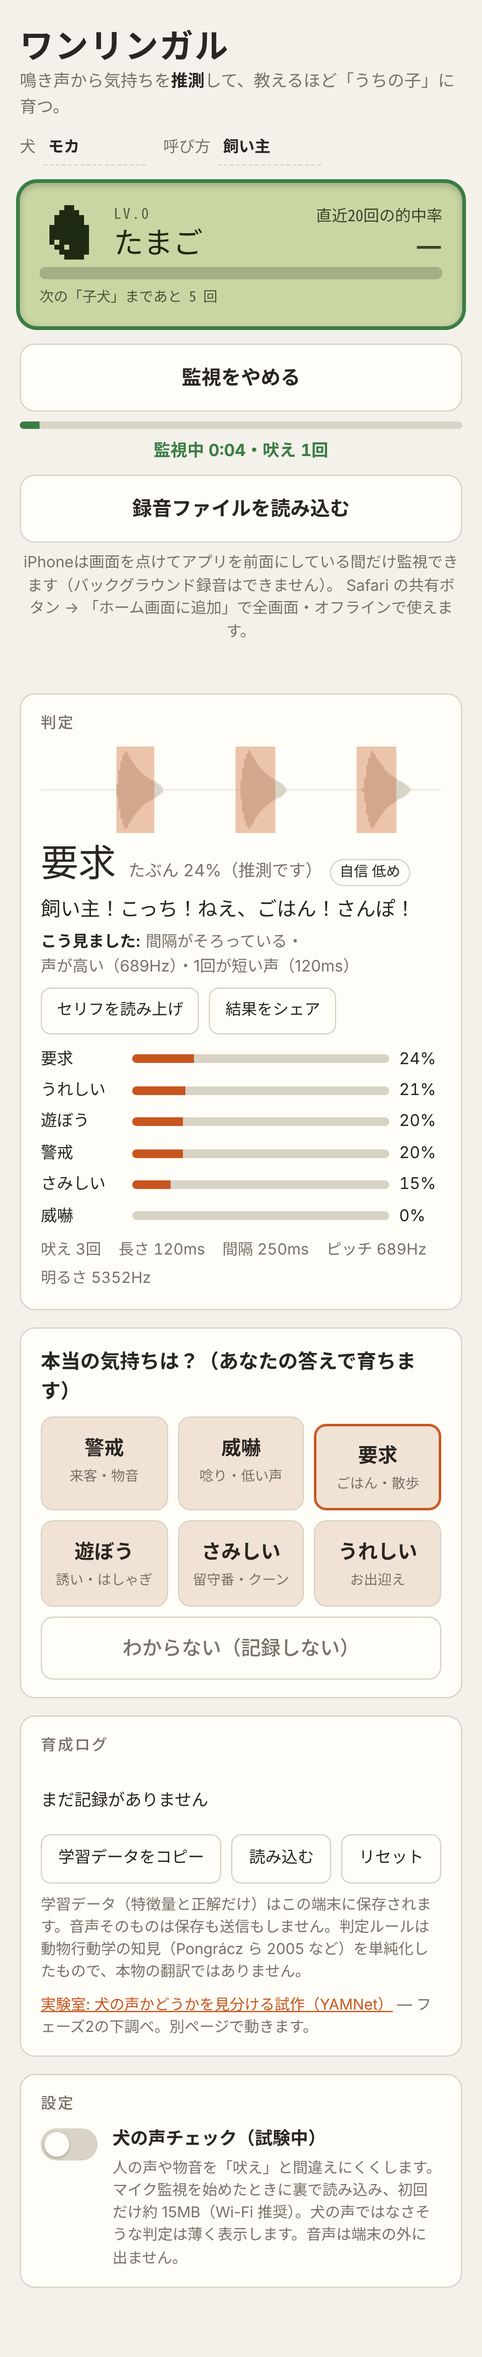
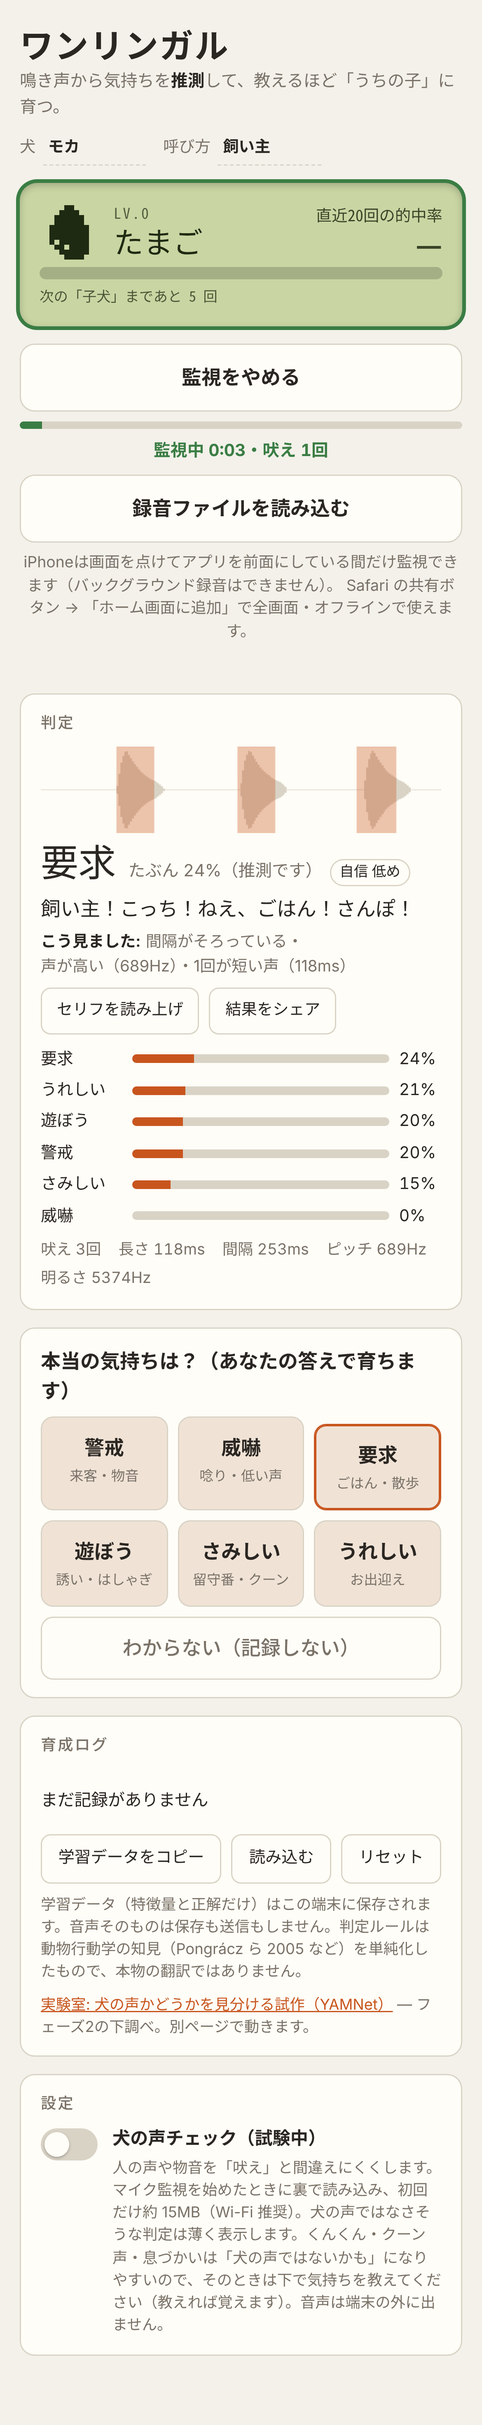
(c) 文言: 犬の声チェックの説明と判定の注記に「くんくん・息は落ちやすい→教えれば覚える」（sw wl-v16）、MFCC c3 を kNN の 9 本目に足す案の下書き、c3 の sr 依存を確認して lab-yamnet の表に sr の一言、日報 2026-11-19
- app/index.html: 設定パネル「犬の声チェック（試験中）」の説明と #dogNote の文言。app/sw.js wl-v16。判定の数字は不変
- tests/e2e: トグルのテストに文言の確認 2 行。docs/screenshots を npm run shots で撮り直し
- tests/lab/report.mjs: mfccReport の下に基準と CC0 のサンプリング周波数を出す mfccSrNote（違えば名指しで警告）。単体テスト 1 本（69/69）
- docs/plan.md: #13 に c3 を 9 本目に足す案の下書き（16 kHz に落としてから）、#14 (c) 完了。docs/accuracy.md 2026-11-19: 合成音で c3 が 44.1k→16k で 5.0 動く

Claude-Session: https://claude.ai/code/session_01Dz83Za9kXbRi3LswcFxPTR

diff --git a/app/index.html b/app/index.html
@@ -69,7 +69,7 @@
     <div class="pred"><span class="big" id="predBig">── ──</span><span class="conf" id="predConf"></span></div>
     <p class="quote" id="quote"></p>
     <p class="why" id="why" aria-label="判定の根拠"></p>
-    <p class="dognote" id="dogNote" hidden>犬の声ではないかもしれません（人の声や物音？）。犬の声だったら、下で気持ちを教えると覚えます。</p>
+    <p class="dognote" id="dogNote" hidden>犬の声ではないかもしれません（人の声や物音？ くんくん・息づかいもこう出やすいです）。犬の声だったら、下で気持ちを教えると覚えます。</p>
     <div class="minis">
       <button class="mini" id="speak" type="button">セリフを読み上げ</button>
       <button class="mini" id="share" type="button">結果をシェア</button>
@@ -112,7 +112,7 @@
     <label class="switch">
       <input type="checkbox" id="dogcheckToggle">
       <span class="knob" aria-hidden="true"></span>
-      <span class="text"><b>犬の声チェック（試験中）</b><small>人の声や物音を「吠え」と間違えにくくします。マイク監視を始めたときに裏で読み込み、初回だけ約 15MB（Wi-Fi 推奨）。犬の声ではなさそうな判定は薄く表示します。音声は端末の外に出ません。</small></span>
+      <span class="text"><b>犬の声チェック（試験中）</b><small>人の声や物音を「吠え」と間違えにくくします。マイク監視を始めたときに裏で読み込み、初回だけ約 15MB（Wi-Fi 推奨）。犬の声ではなさそうな判定は薄く表示します。くんくん・クーン声・息づかいは「犬の声ではないかも」になりやすいので、そのときは下で気持ちを教えてください（教えれば覚えます）。音声は端末の外に出ません。</small></span>
     </label>
     <p class="note" id="dogcheckState"></p>
   </section>

diff --git a/app/sw.js b/app/sw.js
@@ -1,7 +1,7 @@
 // sw.js — オフライン用。アプリ本体は事前キャッシュ、フォントはキャッシュしつつネットワーク優先。
 // それ以外の外部オリジン（犬の声チェックの tfjs＝jsdelivr、YAMNet のモデル＝tfhub / kaggle、約 15MB）には手を出さない:
 // ここのキャッシュに入れると VERSION を上げるたびに消えて読み直しになるので、ブラウザ自身の HTTP キャッシュに任せる。
-const VERSION = 'wl-v15';
+const VERSION = 'wl-v16';
 /** Service Worker のキャッシュに入れてよい外部オリジン（フォントだけ） */
 const CACHEABLE_HOSTS = ['fonts.googleapis.com', 'fonts.gstatic.com'];
 const SHELL = ['./', './index.html', './css/app.css', './js/app.js', './js/features.js', './js/classify.js', './js/store.js', './js/mic.js', './js/share.js', './js/recs.js', './js/mascot.js', './js/dogcheck.js', './js/voice.js', './affiliate.json', './manifest.webmanifest', './icons/icon.svg', './icons/icon-192.png', './icons/icon-512.png'];

diff --git a/docs/plan.md b/docs/plan.md
@@ -37,9 +37,9 @@
 | 10 | 犬か犬以外かのしきい値決め | 完了（0.3 のまま） | ESC-50 の dog 40 本・犬以外 40 本（8 クラス）で、しきい値 0.2〜0.4 なら犬 40/40・誤判定 0/40（`docs/accuracy.md` 2026-11-03）。`lab-yamnet` ワークフローが実行時にデータを取得して毎回この表を出す（`tests/lab/fetch-data.mjs`, `report.mjs`）。くんくん・うなり・遠吠えは CC0 5 本で別途確認 |
 | 11 | CC ライセンスの犬の鳴き声データセット洗い出し | 完了 | `docs/datasets.md`。商用で使えるのは CC0/CC BY のみ。気持ちラベル付きの公開データは実質なし |
 | 12 | 最初の「本物の犬」を本体の判定に通す | 一部完了 | ESC-50 dog 40 本で吠え検出 40/40、特徴量の分布を `docs/accuracy.md` に記録（`tests/lab/features-check.mjs`）。CC0 5 本（pet-decoder-audio-fixtures）はこの作業環境から HF に届かないので Actions 側で取得・実行。NC のデータはリポジトリに入れない（`tests/lab/data/` は gitignore） |
-| 13 | MFCC を特徴量に追加 | **保留（本体には入れない。2026-11-15）**: 正解ラベル付きの本物の犬 20 件がたまったら c3 1 本だけを候補に再検討 | **2026-11-15 の結果（run 43627321740、`docs/accuracy.md` 同日）**: くんくん・うなり は c3 だけが吠え 40 本から +2.2σ／+2.9σ 離れる（同じ向きなので さみしい／威嚇 は分かれない）。12 係数で |z| ≥ 2 が 1 つ出るのは偶然でも 0.6 個ぶん（小型犬の吠えの c8 がそれ）なので弱い。息は 7 係数が離れるが YAMNet が落とす声。→ 12 次元を kNN に足すのはやめ、ラベルが来てから塊ごとの c3 を見る。表は残す。**2026-11-15**: `lab-yamnet` の `features-check.mjs` に **MFCC（c1〜c12 の平均）の表**を足した（`report.mjs` の `mfccReport`、`tools/mfcc-bench.mjs` の `mfccOfEvents`＝声 1 回ごとのフレームだけを使う。単体テスト 2 本）。基準は ESC-50 の吠え 40 本（ファイルごとの平均の 平均±σ）で、CC0 5 本と犬以外 8 クラスについて「吠えから |z| ≥ 2 離れた係数」を挙げる。この作業環境で ESC-50 だけ先に通した結果: 犬以外 8 クラスのうち 5 クラス（ノック c2・c4、笑い c4、咳 c4、拍手 c1、鶏 c6）が吠えから離れ、猫・赤ん坊・クラクションは離れない。**くんくん・うなり（CC0）は Actions の run で見る**（この環境からは HF に届かない）。分かれなければ本体には入れない。**2026-11-14**: ライブラリを入れずに自前で 13 次元を出す手順と計算量を `tools/mfcc-bench.mjs`（純粋関数＋計測、単体テスト 5 本。**本体には入れていない**）で確かめた。1 秒の音に **約 7.5 ms**（Node / Chromium、Actions 相当の CPU）、CPU を 4 倍遅くしても 30 ms。いまの `analyzeSamples` より軽い（下の「plan #13 の下調べ」） |
+| 13 | MFCC を特徴量に追加 | **保留（本体には入れない。2026-11-15）**: 正解ラベル付きの本物の犬 20 件がたまったら c3 1 本だけを候補に再検討。**c3 を 9 本目に足す案の下書きは 2026-11-19（下の「plan #13 の下調べ」の末尾）** | **2026-11-19**: c3 1 本を kNN の 9 本目に足す案を机上で下書き（下の節）。あわせて **c3 の値はサンプリング周波数で変わる**（合成の吠え bark4 が 44.1 kHz で −7.9、16 kHz で −2.9。σ 3.1 より大きい差）ことが分かったので、`lab-yamnet` の MFCC の表の下に基準と CC0 の sr を出す一言（`report.mjs` の `mfccSrNote`、単体テスト 1 本）を足した。CC0 の sr が 44.1 kHz でなければ 11-15 の c3 の結果は取り直し。本体に入れるなら 16 kHz に落としてから。**2026-11-15 の結果（run 43627321740、`docs/accuracy.md` 同日）**: くんくん・うなり は c3 だけが吠え 40 本から +2.2σ／+2.9σ 離れる（同じ向きなので さみしい／威嚇 は分かれない）。12 係数で |z| ≥ 2 が 1 つ出るのは偶然でも 0.6 個ぶん（小型犬の吠えの c8 がそれ）なので弱い。息は 7 係数が離れるが YAMNet が落とす声。→ 12 次元を kNN に足すのはやめ、ラベルが来てから塊ごとの c3 を見る。表は残す。**2026-11-15**: `lab-yamnet` の `features-check.mjs` に **MFCC（c1〜c12 の平均）の表**を足した（`report.mjs` の `mfccReport`、`tools/mfcc-bench.mjs` の `mfccOfEvents`＝声 1 回ごとのフレームだけを使う。単体テスト 2 本）。基準は ESC-50 の吠え 40 本（ファイルごとの平均の 平均±σ）で、CC0 5 本と犬以外 8 クラスについて「吠えから |z| ≥ 2 離れた係数」を挙げる。この作業環境で ESC-50 だけ先に通した結果: 犬以外 8 クラスのうち 5 クラス（ノック c2・c4、笑い c4、咳 c4、拍手 c1、鶏 c6）が吠えから離れ、猫・赤ん坊・クラクションは離れない。**くんくん・うなり（CC0）は Actions の run で見る**（この環境からは HF に届かない）。分かれなければ本体には入れない。**2026-11-14**: ライブラリを入れずに自前で 13 次元を出す手順と計算量を `tools/mfcc-bench.mjs`（純粋関数＋計測、単体テスト 5 本。**本体には入れていない**）で確かめた。1 秒の音に **約 7.5 ms**（Node / Chromium、Actions 相当の CPU）、CPU を 4 倍遅くしても 30 ms。いまの `analyzeSamples` より軽い（下の「plan #13 の下調べ」） |
 | 13b | ルールの見直し（本物 40 本の分布から） | (i) `lvlDrop` を feats に出す 完了 2026-11-15。塊ごとの lvlDrop の表 完了 2026-11-16（CC0 の結果も同夜に記録）。**(ii) `vec()` に lvlDrop 完了 2026-11-17（kNN 8 次元）**。残り: (iii) `terms()`・重み（下書きは設計メモ 5 の 2026-11-17 に数字で書いた。**コードは正解ラベル付きの本物の犬が来てから**。2026-11-18: 「他から引く」形も机上で見て、吠えの塊の 9〜13% が動くので同じ結論） | **2026-11-18**: (iii) の別案「`uneven` が高いときに 警戒・うれしい の fast／many を弱める（他から引く）」を 11-17 と同じ 2 万件で机上確認（`docs/accuracy.md` 2026-11-18）。くんくん が さみしい になるのは全部弱める D1 と 3 気持ちの合計を下げる D4 だけ（26% vs 22〜24% の僅差）で、その代わり **本物の吠えの塊の 9.3%／12.7% の 1 位が変わる**（11-17 の C の 11% と同じ水準）。くんくん と吠えを分ける数字が lvlDrop 1 本しか無く、吠えの塊でも ≥5 dB が 1 割あるのが根っこ。→ 結論は変わらず **(iii) はコードにしない**。ルールで拾うなら MFCC c3 を kNN に足して 2 本目の数字を作ってから（正解ラベルが来てから）。あわせて `lab-yamnet` の Summary の最後と run の注釈に **「今夜の要点」3 行**（吠え検出率・塊の犬らしさ・くんくん／うなり が吠えから離れたか）を出す `tests/lab/highlights.mjs`（`report.mjs` の `highlightsReport`、単体テスト 1 本）を足した。app/ は触っていない。**2026-11-17**: **(ii) 完了**＝`classify.js` の `vec()` に `clamp(f.lvlDrop ?? 0, 0, 12) / 12` を足した（7 → **8 次元**。12 dB で 1、息 12.8 dB が上限の目安）。lvlDrop の無い古いサンプルは 0（そろった吠えと同じ側）として読むので、古いサンプル同士の距離・近い順は 7 次元のときとまったく同じ（単体テストで |Δn|/12 の距離が変わらないことを固定）。**ルール `terms()`・`WEIGHTS` は触っていない**ので、判定の数字が変わり得るのは飼い主が教えた声が 3 件以上あって kNN が効くときだけ（しかも n/(n+8) の重みぶん）。単体テスト 2 本（互換テストを 8 次元用に書き直し＋「7 つが同じなら 5.5 dB のサンプルが 5.0 dB の塊に近い、ルールは不変、`explain()` の似た声の行が出る」）。E2E は既存の「教えてもらった似た声」の確認（3 件以上で出る）がそのまま通る。`sw.js` **wl-v15**。**2026-11-16**: `lab-yamnet` の `features-check.mjs` に **塊ごとの lvlDrop の表**を足した（`report.mjs` の `lvlDropReport`、単体テスト 1 本。塊は `clustersFromEvents` で切り出し、塊ごとに本体と同じ `analyzeSamples()` を掛け直す）。ESC-50 の吠え 40 本 → 72 塊（2 回以上鳴いた 50 塊）: **中央値 1.9 dB、25–75% 0.7–2.9、>4 dB が 20%**（`docs/accuracy.md` 2026-11-16）。ファイル全体（1.8 dB、>4 dB 26%）とほぼ同じで、**塊にしても吠えの lvlDrop は縮まない**。→ 設計メモ 5 の `uneven`（1.5→5.5 dB）だと本物の吠えの 56% が uneven > 0 になるので、境目は吠えの 75% 点（2.9 dB）の上から（例 3→7 dB）、かつ「さみしい に足すだけ・他から引かない」に改める。**同夜の CC0 の結果（run 43747142815、`docs/accuracy.md` 同日）: くんくん は塊でも 5.0〜5.5 dB（3 塊とも >4 dB）、CC0 の吠え 2 本は 15 塊とも ≤1 dB、うなり は 2.4 dB で吠えと重なる → 塊単位でも「小さい声が混ざる」は見える。境目は 3→7 dB、さみしい だけに足す（威嚇 には使わない）。(ii) に進む。** あわせて **(ii) の準備**: `classify.js` の `vec()` は変えずに、lvlDrop 無しの古いサンプルと有りの新しいサンプルを混ぜても `neighbors`・`knn`・`predict` が同じ（undefined と 0 で同じ距離）ことの単体テストを書いた（`features.test.mjs`）。app/ は触っていない。**2026-11-15**: 設計メモ (i) 完了＝`features.js` の `feats.lvlDrop`（塊の中でいちばん大きい声から各声が何 dB 下かの中央値。`levelDrop()` 純粋関数。1 回だけ・無音は 0）。判定（`rules`・`predict`）と画面の表示は変えていない（単体テストで lvlDrop の有無で判定が同じことを確認）。保存は `app.js` が `feats` をそのまま `samples[].f` に入れるので **数字 1 つ増えて 8 つ**（E2E の保存キーの確認も 8 つに。音声は保存しない のまま。設計メモ 3 の「増えるだけで壊れない」どおり）。`sw.js` wl-v14。合成音: そろった 4 連吠え 0.0 dB、4 回のうち 2 回を 1/4 の大きさにすると 6.0 dB、fixtures の bark4 0.05・mic10s 0.2。**ESC-50 の吠え 40 本（5 秒のファイル全体、2 回以上鳴いた 34 本）では中央値 1.8 dB、25–75% 0.8–4.2、最大 7.2**（`docs/accuracy.md` 2026-11-15）→ 5 秒まるごとだと吠えでも 1/4 は 4 dB を超えるので、`uneven` の傾き（1.5→5.5 dB）は塊（約 1.5 秒）の数字を見て決める。**2026-11-14**: 「声の大小のばらつき」（`lvlDrop`）と「1 回の中のピッチの傾き」（`f0Slope`）を特徴量に足す案を下の「plan #13b の設計メモ」に書いた（机上。数字・コードは変えていない）。**2026-11-13**: `features-check.mjs` に、CC0 5 本の **声 1 回ごとの f0・cent・level の分布**（`report.mjs` の `eventToneReport`、単体テスト 1 本）を足した。f0 が取れた割合、f0 の中央値・25–75%、「声が低い ≤320Hz」「声が高い ≥590Hz」に入る割合、f0 の幅（25–75% の差＝ピッチの動きの代わり）、cent と「こもった ≤1300／明るい ≥1600」、level（dBFS）と **同じファイルのいちばん大きい声から何 dB 下か**（録音ごとに音量の基準が違うので、ファイル間ではなくファイル内の大小のばらつきを見る）。`features-result.json` の `events` に `level` を追加。**同夜の結果（run 43280755707、`docs/accuracy.md` 2026-11-13）**: うなりは声 1 回ごとに見ると半分が「低い ≤320Hz」（吠え・くんくんは 0%。ただし大型犬の吠えも 36%）。くんくんは吠えより小さい声が混ざる（いちばん大きい声から中央値 5.4 dB 下。吠えは 0.7〜1.6 dB）が、うなりも 4.6 dB で同じくらい。ピッチの動き（f0 の幅）はくんくんが特別広くはない。**いまの「さみしい」のルール（長い・高い・明るい）は本物のくんくんに 3 つとも当たらない**（85ms・459Hz・cent 1248Hz でむしろ「こもった」）。直す方向は「小さい声が混ざる・中くらいの高さ・こもり気味」。判定の数字は変えていない（正解ラベルが来てから）。**2026-11-12**: `lab-yamnet` の `features-check.mjs` に、CC0 5 本（くんくん・うなり・息・大型犬・小型犬）の **声 1 回ごとの長さと間隔の分布**（中央値・25–75%、いまの境目 長い ≥710ms／短い ≤590ms／間隔 短い ≤300ms／ゆったり ≥880ms を超える割合、最長）の表を足した（`report.mjs` の `eventDistReport`、単体テスト 1 本）。**同夜の結果（run 43078050401、`docs/accuracy.md` 2026-11-12）: くんくんは 1 回 85ms（最長 309ms）、うなりは 176ms（最長 448ms）で、どちらも吠えより長くない。「長い ≥710ms」に入るのは息の 1 塊（859ms）だけ。→ 長さの境目を寄せても さみしい・威嚇 は出せない。さみしい（クーン声）は長さではなくピッチの動きや音量の小ささ、威嚇はピッチの低さ（うなり 307Hz）で拾う方向。数字を動かすのは正解ラベルが来てから（#13 の MFCC と一緒に）。** 本物の連吠えは間隔がばらつく（gapCv 中央値 0.58）ので「規則的→要求」がほぼ出ない。正解ラベル付きデータが来てから直す。**2026-11-11 の机上確認**（`docs/accuracy.md` 同日）: 本物の分布に合わせた乱数 2 万件で「なぜ」に出る言葉を数えると、**「1回が短い声」が 89%** に出て、「間隔が短い／ゆったり／そろっている」は合わせて 28% しか出ない（本物の間隔 300〜880ms は、短い・ゆったりのどちらにも入らない空白地帯）。「1回が長い声」は 0%（長い＝710ms 以上は本物の吠えにはほぼ無い）ので、ルールだけでは さみしい 0%・威嚇 1% にしかならない（ESC-50 の実測 1/40・1/40 と一致）。直すときの候補: 長さの境目（いま 0.35〜0.95 秒）と間隔の境目（短い ≤300ms／ゆったり ≥880ms）を本物の分布（145ms、509ms）の前後に寄せる。数字は正解ラベルが来てから |
-| 14 | YAMNet を本体の mic.js の前段に入れる | 実装 ①〜④ 完了（既定オフ）。残り: スマホ実機の処理時間・電池を見てから既定オンの判断 | #9・#10 が済んだので着手できる。設計: モデル読み込みは監視開始後に裏で（約 15MB、初回のみ）、読めていない間とオフライン時は従来どおり音量だけで動く。吠えの塊ごとに犬らしさを出し 0.3 未満は「犬以外の音」として判定しない（履歴にも残さない）。スマホの処理時間を実機で測ってから本番に。**2026-11-04**: 本体が実際に YAMNet に渡す単位＝「吠えの塊」（mic.js と同じ区切り、ESC-50 で犬 72 塊・犬以外 51 塊、平均 1.5 秒）ごとの犬らしさを `lab-yamnet` が表に出すようにした（`clustersFromEvents`、`clusterReport`）。あわせて、くんくん・息のように点が割れる声のために「犬系クラスの合計 dogSum」も並記。結果: 塊で犬 89/97（92%）・犬以外 0/51、**くんくん・息は塊では落ちる**（`docs/accuracy.md` 2026-11-04）。**2026-11-05**: 前の実音を足して最低 2 秒／3 秒にして計測。**2 秒で犬の塊 91/97（94%）・犬以外 0/51** と改善（3 秒は赤ん坊の泣き声を 1 塊拾う）。くんくん・息は広げても落ちる。→ 渡す範囲は「最低 2 秒」に決定、設計メモを下に固めた。**同日**: 実装 ① 完了＝`Listener.contextSec`（2 秒）と `onCluster(x, sr, { wide })` の第 3 引数（単体テスト 4 本。本体の判定・表示は未変更）。**2026-11-06**: 実装 ② 完了＝`app/js/dogcheck.js`（既定オフ。`wl.dogcheck` がオンのときだけ監視開始後に裏で tfjs 4.22.0 とモデルを読み、`wide` を通して犬らしさを出す。読めない・オフは従来どおり）。本体は判定を先に出し、犬らしさは届いたら特徴量の行に「犬らしさ 94%（0.9秒）」と添えるだけ（判定・保存は未変更）。トグル（④）ができるまでの入口は URL の `?dogcheck=on` / `?dogcheck=off`。単体テスト 7 本・E2E 3 本×2 端末（偽の tf で配線を確認）、本物の tfjs・モデルでは `lab-yamnet` が本体のページの中で通す（`tests/lab/dogcheck-probe.mjs`）。塊 1 つの処理時間は Actions のランナーで 2 秒の音に中央値 876 ms（`docs/accuracy.md` 2026-11-06）。本物のモデルでも本体の中で通ることを確認済み（run 42084472735: 読み込み 1.4 秒、犬らしさ 86%＝実験室と同じ、推論 0.8〜1.0 秒、backend は cpu）。**2026-11-07**: 実装 ③ 完了＝犬らしさ 0.3 未満の判定は、出したまま薄くして「犬の声ではないかもしれません」と添え、「吠え ◯回」から外す。捨てない: 飼い主が気持ちをタップしたら犬の声として通常どおり保存し、薄い表示を戻して吠え回数にも戻す（保存する項目は増やしていない）。E2E 1 本×2 端末（偽の tf で犬らしさ 5%）。あわせて `sw.js` を直し、外部オリジンはフォントだけキャッシュ、tfjs・モデルには触らない（設計メモ 7-ii。単体テスト 4 本・E2E 1 本×2 端末）。**2026-11-08**: 実装 ④ 完了＝画面いちばん下の「設定」パネルに「犬の声チェック（試験中）」のトグル（`#dogcheckToggle`。`?dogcheck=on/off` と同じ localStorage `wl.dogcheck` を変える。監視中にオンにすればその場で読み込み、オフにすれば以後の判定に掛けない。状態の一言「読み込んでいます…／準備できています／読み込めませんでした」を下に出す。E2E 1 本×2 端末、見た目 `docs/screenshots/android-chrome-settings.png`）。あわせて SRI（7-iii）完了＝tfjs の `<script>` に `integrity`（`app/lab/yamnet.js` の `TFJS_SRI`、本体と実験室の両方）。CDN の中身が変わればブラウザが読まず「読めなかった」扱いになるだけ。ハッシュは npm の tarball から出し、CDN が同じ中身かは `lab-yamnet` の `tests/lab/sri-check.mjs` が毎回比べる。次: スマホ実機の処理時間（社長）、既定オンの判断。録音ファイル読み込みに掛けるか（7-iv）は 2026-11-09 に検討して**当面やらない**（設計メモ 9） |
+| 14 | YAMNet を本体の mic.js の前段に入れる | 実装 ①〜④ 完了（既定オフ）。残り: スマホ実機の処理時間・電池を見てから既定オンの判断 | **2026-11-19**: (c) 文言＝設定パネルの「犬の声チェック（試験中）」の説明に「くんくん・クーン声・息づかいは「犬の声ではないかも」になりやすいので、そのときは下で気持ちを教えてください（教えれば覚えます）」、判定の注記 `#dogNote` に「くんくん・息づかいもこう出やすいです」を足した（11-05 の計測「くんくん・息は塊では落ちる」を飼い主に先に伝える）。E2E のトグルのテストに文言の確認 2 行。`docs/screenshots/` を `npm run shots` で撮り直し（設定パネルが伸びたぶん全ページの絵が変わった）。`sw.js` **wl-v16**。判定の数字は変えていない。#9・#10 が済んだので着手できる。設計: モデル読み込みは監視開始後に裏で（約 15MB、初回のみ）、読めていない間とオフライン時は従来どおり音量だけで動く。吠えの塊ごとに犬らしさを出し 0.3 未満は「犬以外の音」として判定しない（履歴にも残さない）。スマホの処理時間を実機で測ってから本番に。**2026-11-04**: 本体が実際に YAMNet に渡す単位＝「吠えの塊」（mic.js と同じ区切り、ESC-50 で犬 72 塊・犬以外 51 塊、平均 1.5 秒）ごとの犬らしさを `lab-yamnet` が表に出すようにした（`clustersFromEvents`、`clusterReport`）。あわせて、くんくん・息のように点が割れる声のために「犬系クラスの合計 dogSum」も並記。結果: 塊で犬 89/97（92%）・犬以外 0/51、**くんくん・息は塊では落ちる**（`docs/accuracy.md` 2026-11-04）。**2026-11-05**: 前の実音を足して最低 2 秒／3 秒にして計測。**2 秒で犬の塊 91/97（94%）・犬以外 0/51** と改善（3 秒は赤ん坊の泣き声を 1 塊拾う）。くんくん・息は広げても落ちる。→ 渡す範囲は「最低 2 秒」に決定、設計メモを下に固めた。**同日**: 実装 ① 完了＝`Listener.contextSec`（2 秒）と `onCluster(x, sr, { wide })` の第 3 引数（単体テスト 4 本。本体の判定・表示は未変更）。**2026-11-06**: 実装 ② 完了＝`app/js/dogcheck.js`（既定オフ。`wl.dogcheck` がオンのときだけ監視開始後に裏で tfjs 4.22.0 とモデルを読み、`wide` を通して犬らしさを出す。読めない・オフは従来どおり）。本体は判定を先に出し、犬らしさは届いたら特徴量の行に「犬らしさ 94%（0.9秒）」と添えるだけ（判定・保存は未変更）。トグル（④）ができるまでの入口は URL の `?dogcheck=on` / `?dogcheck=off`。単体テスト 7 本・E2E 3 本×2 端末（偽の tf で配線を確認）、本物の tfjs・モデルでは `lab-yamnet` が本体のページの中で通す（`tests/lab/dogcheck-probe.mjs`）。塊 1 つの処理時間は Actions のランナーで 2 秒の音に中央値 876 ms（`docs/accuracy.md` 2026-11-06）。本物のモデルでも本体の中で通ることを確認済み（run 42084472735: 読み込み 1.4 秒、犬らしさ 86%＝実験室と同じ、推論 0.8〜1.0 秒、backend は cpu）。**2026-11-07**: 実装 ③ 完了＝犬らしさ 0.3 未満の判定は、出したまま薄くして「犬の声ではないかもしれません」と添え、「吠え ◯回」から外す。捨てない: 飼い主が気持ちをタップしたら犬の声として通常どおり保存し、薄い表示を戻して吠え回数にも戻す（保存する項目は増やしていない）。E2E 1 本×2 端末（偽の tf で犬らしさ 5%）。あわせて `sw.js` を直し、外部オリジンはフォントだけキャッシュ、tfjs・モデルには触らない（設計メモ 7-ii。単体テスト 4 本・E2E 1 本×2 端末）。**2026-11-08**: 実装 ④ 完了＝画面いちばん下の「設定」パネルに「犬の声チェック（試験中）」のトグル（`#dogcheckToggle`。`?dogcheck=on/off` と同じ localStorage `wl.dogcheck` を変える。監視中にオンにすればその場で読み込み、オフにすれば以後の判定に掛けない。状態の一言「読み込んでいます…／準備できています／読み込めませんでした」を下に出す。E2E 1 本×2 端末、見た目 `docs/screenshots/android-chrome-settings.png`）。あわせて SRI（7-iii）完了＝tfjs の `<script>` に `integrity`（`app/lab/yamnet.js` の `TFJS_SRI`、本体と実験室の両方）。CDN の中身が変わればブラウザが読まず「読めなかった」扱いになるだけ。ハッシュは npm の tarball から出し、CDN が同じ中身かは `lab-yamnet` の `tests/lab/sri-check.mjs` が毎回比べる。次: スマホ実機の処理時間（社長）、既定オンの判断。録音ファイル読み込みに掛けるか（7-iv）は 2026-11-09 に検討して**当面やらない**（設計メモ 9） |
 
 ## plan #14 の設計メモ（2026-11-05。YAMNet を本体 mic.js の前段に入れる）
 
@@ -78,6 +78,19 @@
 - **保存する数字**: 平均だけなら 13（c0 を外して 12）、標準偏差も入れると 26 増える。`samples[].f` に `mfcc: [..]` の配列で持つ形（kNN の `vec()` では各係数を ±20 くらいで clamp して正規化、ルールには使わない）。音声そのものではないので「音声データは端末から出さない」に影響なし。localStorage の上限（`MAX = 2000` 件）でも 1 件 300 バイト増 → 600KB 程度で問題なし。
 - **本物の犬で先に見ること**: ESC-50 dog 40 本と CC0 5 本で、くんくん／うなり／吠えの MFCC（c1〜c12 の平均）が分かれるかを `lab-yamnet` の `features-check.mjs` に表で足す（`report.mjs` に純粋関数、Actions で実行）。**→ 2026-11-15 に表を足した**（`mfccReport`。ESC-50 だけの先行結果は #13 の状態欄と `docs/accuracy.md` 2026-11-15。CC0 5 本は Actions の run を待つ）。分かれなければ本体には入れない。
 - **入れる順番の案**: (i) `features.js` に `mfcc(x, sr)` を足し `feats.mfcc` に出すだけ（判定・保存は変えない。単体テスト）→ (ii) 保存（`store.js` 互換は #13b と同じ: 無ければ無視）→ (iii) `vec()` に足して kNN だけに効かせる（ルールは触らない）→ (iv) 正解ラベル付きデータで効果を測って `docs/accuracy.md` に書く。
+
+### c3 を kNN の 9 本目に足す案の下書き（2026-11-19。机上、コードは正解ラベル付きの本物の犬が来てから）
+
+11-15 の表で くんくん（+2.2σ）・うなり（+2.9σ）が吠えから離れた係数は c3 だけなので、12 次元ではなく **`mfcc3` 1 つ**を #13b の `lvlDrop` と同じ形で足す案。
+
+1. **出す場所**: `features.js` の `analyzeSamples()` の最後で、`events` の声の中のフレームだけ（`tools/mfcc-bench.mjs` の `mfccOfEvents` と同じ選び方）の c3 の平均を `feats.mfcc3` に出す。FFT・メルフィルタバンク 26 本・log は 13 係数と同じ手間で、DCT だけ 1 行（c3 の行）になる。`mfcc-bench.mjs` の `melFilterbank`／`dctMatrix`／`mfccFrames` を `app/js/` に移す（約 60 行、依存なし）。声が 1 回も無ければ `mfcc3 = 0`。
+2. **計算量**: この作業環境で fixtures の `bark4.wav`（2.8 秒・4 回）に 13 係数で 21 ms、`mic10s.wav`（8.7 秒）で 59 ms（Node、1 コア）。塊 1 つ（約 1.5〜2 秒）なら 10〜15 ms、スマホで 4 倍遅くても 60 ms なので「検出から判定まで約 1 秒」は変わらない（11-14 の見積もりどおり）。
+3. **保存**: `samples[].f.mfcc3` が 1 つ増えるだけ（8 → 9 つ）。音声ではない。`importJSON` の検査はそのまま通る。古いサンプルは `f.mfcc3 ?? 基準値` で読む（下の 5）。
+4. **`vec()` の正規化**: `(clamp(mfcc3, −12, 12) + 12) / 24` を 9 本目に。幅 24 は吠え 40 本の c3 −1.7±3.1 の ±3σ（≒ ±9）と うなり 7.2・息 −9.6 を入れる値。σ で割る正規化（11-15 のメモ）は「吠え 40 本の σ」を本体に持ち込むことになるので、lvlDrop と同じ固定の clamp にそろえる。
+5. **古いサンプルの扱い**: `lvlDrop` は「無ければ 0＝そろった吠えの側」で済んだが、c3 は 0 が吠えの側とは限らない（吠え −1.7±3.1、16 kHz に落とした合成の吠えは −2.9）。**無ければ「距離に効かせない」**（その次元の差を 0 にする）のが安全。`neighbors()` の距離計算で `s.f.mfcc3 == null || f.mfcc3 == null` なら 9 本目を飛ばす（lvlDrop のときの単体テスト「古いサンプル同士の近い順は変わらない」と同じ固定を書く）。
+6. **サンプリング周波数を先にそろえる（今夜分かったこと、`docs/accuracy.md` 2026-11-19）**: メルフィルタバンクは 0〜sr/2 を 26 本で割るので **c3 の値は sr で変わる**。合成の `bark4.wav` は 44.1 kHz で c3 −7.9、`resampleTo16k`（`app/lab/yamnet.js`）で 16 kHz に落とすと **−2.9**（差 5.0、吠え 40 本の σ 3.1 より大きい）。44.1 → 48 kHz は 0.1〜0.6 しか動かない。スマホのマイクは 48 kHz（Android）／44.1 または 48 kHz（iPhone）、ESC-50 は 44.1 kHz、CC0 5 本の sr は未確認（`features-result.json` の `sr` に入っている。今夜 `mfccReport` の表の下に sr を出す一言を足したので、次の `lab-yamnet` の run で分かる。**もし くんくん・うなり が 44.1 kHz でなければ、11-15 の「c3 +2.2σ／+2.9σ」は声の違いではなく sr の違いかもしれない**）。本体に入れるときは、YAMNet と同じく **16 kHz に落としてから**（`resampleTo16k` を流用。frame 1024 / hop 256 は 16 kHz で 64 ms / 16 ms になるので、frame 512 / hop 128（32 / 8 ms）に変える）MFCC を出し、ESC-50・CC0 の基準の表も同じ 16 kHz で取り直す。
+7. **効果の測り方（正解ラベル付き 20 件がたまったら）**: 塊ごとの c3（16 kHz）をラベル別に並べ、さみしい・威嚇 の c3 が 警戒・要求 より高い側に寄るか（11-15 の向き）を見る。寄らなければ 9 本目は足さない。寄れば、kNN leave-one-out で 8 次元 vs 9 次元の的中率を比べて `docs/accuracy.md` に書く。
+8. **順番**: (a) 次の `lab-yamnet` の run で CC0 の sr を確認 → (b) `features-check.mjs` を 16 kHz 統一に直して表を取り直す（tests/lab だけ、app/ は触らない）→ (c) 正解ラベルが来たら 1〜5 を 1 晩 1 つずつ。
 
 ## 公開ページの品質（社長指示 2026-11-02「申請系はまだ。練度と公開ページのクオリティを最大限に」）
 

diff --git a/docs/daily/2026-11-19.md b/docs/daily/2026-11-19.md
@@ -1,0 +1,41 @@
+# 2026-11-19
+
+（深夜 03:20〜 の自動作業。11-18 の日報「明日やること」の（自動）2 件をそのままやった: 1 件目＝**(c) 文言**（設定パネルの「犬の声チェック（試験中）」の説明と判定の注記に「くんくん・息は落ちやすい → 教えれば覚える」の一言。app/ を触ったので `sw.js` は **wl-v16**）、2 件目＝**MFCC c3 を kNN の 9 本目に足す案の下書き**（机上。書く途中で **c3 がサンプリング周波数で大きく変わる**ことが分かり、`lab-yamnet` の表に sr の一言を足した）。判定の数字は 1 つも変えていない。）
+
+## やったこと
+- **(c) 文言（plan #14）**: 設定パネルの説明文に「くんくん・クーン声・息づかいは「犬の声ではないかも」になりやすいので、そのときは下で気持ちを教えてください（教えれば覚えます）。」を足し、判定の注記 `#dogNote` を「犬の声ではないかもしれません（人の声や物音？ くんくん・息づかいもこう出やすいです）。犬の声だったら、下で気持ちを教えると覚えます。」にした（11-05 の計測「くんくん・息は塊では落ちる」を飼い主に先に伝えて、薄くなっても驚かないように）。E2E のトグルのテストに文言の確認 2 行。`npm run shots` で `docs/screenshots/` を撮り直し（設定パネルが 1 段伸びたので、フルページの絵 7 枚が変わった。`android-chrome-why.png` は見た目が同じなので戻した）。`sw.js` wl-v15 → **wl-v16**。
+- **c3 を 9 本目に足す案の下書き（plan #13、`docs/plan.md` の「plan #13 の下調べ」末尾）**: `feats.mfcc3`（声の中のフレームだけの c3 の平均）を `features.js` に出す → 保存は 1 つ増えるだけ → `vec()` に `(clamp(mfcc3, −12, 12) + 12) / 24` → 古いサンプルは「距離に効かせない」（lvlDrop の「無ければ 0」は c3 には使えない: 0 が吠えの側とは限らない）→ 正解ラベル 20 件で leave-one-out で 8 次元 vs 9 次元。計算量は fixtures で 13 係数 21 ms（2.8 秒）、塊 1 つなら 10〜15 ms。
+  - **書く途中で分かったこと（`docs/accuracy.md` 2026-11-19）**: メルフィルタバンクが 0〜sr/2 を割るので、**同じ音でも sr で c3 が変わる**。合成の 4 連吠え `bark4.wav` は 44.1 kHz で −7.9、16 kHz に落とすと **−2.9**（差 5.0。ESC-50 の吠え 40 本の σ 3.1 より大きい）。44.1 → 48 kHz は 0.1〜0.6 で小さい。
+  - 11-15 の表は ESC-50（44.1 kHz）を基準に CC0 5 本を比べたが、**CC0 5 本の sr を確かめていなかった**（`fetch-data.mjs` は sr をそろえない）。くんくん・うなり が 44.1 kHz でなければ「c3 +2.2σ／+2.9σ」は sr の違いかもしれない。→ `report.mjs` の `mfccReport` の表の下に **基準と CC0 の sr を出す一言 `mfccSrNote`**（違う本があれば名指しで「sr の違いかもしれない」と警告。単体テスト 1 本）を足した。次の `lab-yamnet` の run（今夜の push で起動）の Summary で分かる。
+  - 本体に入れるなら YAMNet と同じく **16 kHz に落としてから**（`resampleTo16k` 流用）。スマホは 48 kHz（Android）／44.1 か 48 kHz（iPhone）で端末ごとに違うので、そろえないと kNN の距離が端末で変わる。
+- 文書: `docs/plan.md`（#13・#14 の状態欄、c3 の下書きの節）、`docs/accuracy.md`（2026-11-19）、この日報。
+
+## 数字（的中率・デプロイURL・テスト結果）
+- **気持ちの的中率: 未計測**（正解ラベル付きの本物の犬はまだ 0 件）。ルール・kNN の数字は変えていない。
+- デプロイURL: https://bunpitsuka.github.io/wanlingual/ （**wl-v16**。文言だけ）。
+- テスト: 単体 **69/69 pass**（+1 本）、E2E **34/34 pass**（Pixel 7 相当 17・iPhone 14 相当 17、2.0 分。文言の確認 2 行を足した）。
+- c3 の sr 依存（合成音、この作業環境）: bark4 44.1 kHz −7.9 ／ 16 kHz −2.9 ／ 48 kHz 相当 −8.0。howl −8.4／−8.1／−9.0。mic10s −7.5／−3.6／−7.7。
+
+## デプロイ結果
+- 11-18 の 2 回目の push（d11a5c9、docs だけ）: **deploy-pages 成功**（run 44149268573 のあと。今夜の作業開始時点で main は origin と一致）。
+- 今夜の push の結果は最後の報告に書く（`lab-yamnet` も起動するので、CC0 の sr の一言はその Summary の MFCC の表の下に出る）。
+
+## 失敗・詰まったこと
+- **E2E の Chromium**: 前夜と同じく `PLAYWRIGHT_CHROMIUM_EXECUTABLE=/opt/pw-browsers/chromium-1243/chrome-linux64/chrome` で通した。リポジトリは触っていない。
+- 11-18 の `lab-yamnet` の成果物（`yamnet-result`、`features-result.json` に CC0 の `sr` が入っている）をこの作業環境から落とそうとしたが、GitHub の成果物の置き場（Azure Blob）に届かず（403）。sr の確認は次の run の Summary に任せた。
+- 単体テストの期待値を 1 回書き間違えた（CC0 の行はファイル名順なので growl → whimper）。直して通した。
+- `npm run shots` は PNG のバイトが違えば全部コピーするので、見た目が同じ `android-chrome-why.png`（アンチエイリアスの差）も変わった。目で見て同じだったので `git checkout` で戻した。
+
+## 明日やること
+- （自動）今夜の `lab-yamnet` の run の Summary で **CC0 5 本の sr** を確認。44.1 kHz でなければ、`features-check.mjs` の MFCC を **16 kHz に統一**（`resampleTo16k` を通してから `mfccOfEvents`。frame 512 / hop 128）して表を取り直す（tests/lab だけ。app/ は触らない）。同じでも、本体に入れる前提は 16 kHz なので、同じ変更を検討。
+- （自動、小さく）`docs/screenshots/` の撮り直しで変わる絵が多いので、`tools/screenshots.mjs` の「同じ絵は触らない」を「バイトが同じ」から「画素が同じ」（PNG をデコードして比較）に変えるか検討（単体テスト 2 本を壊さない範囲で。30 行程度）。
+- 社長のスマホで実機確認（お時間のあるときに。持ち越し）: https://bunpitsuka.github.io/wanlingual/ で「セリフを読み上げ」の声と、LINE などに URL を貼ったときの OGP の絵。連吠えを教えたあとに「育成ログを書き出す」の JSON で `lvlDrop` が 0〜3 くらいなら、iPhone の自動音量で差が潰れていない確認になります（急ぎません）。
+
+## 社長に聞きたいこと（あれば）
+- （持ち越し、どちらも 30 分以内。`docs/monetization.md` 参照）
+  1. **Amazon アソシエイト・楽天アフィリエイトの登録と `app/affiliate.json` への ID 入力**（登録サイトに https://bunpitsuka.github.io/wanlingual/ ）。ID は空のままにしています。
+  2. **アクセス解析のアカウント**（Cloudflare Web Analytics 推奨: 無料・Cookie 無し）。タグをもらえれば index.html に入れ、毎晩の日報に訪問数を書きます。
+- 今夜は新しくお金・アカウント・投稿・個人情報に関わるものはありません。
+
+## AI費用（概算）
+- 今夜の自動作業（約 35 分、うち E2E 1 周 約 2 分、単体テスト 3 周、合成音の c3 計測）: API 従量換算で 約 ¥300〜400。claude.ai の定額プラン内なら追加請求なし。GitHub Actions は公開リポジトリなので無料枠（deploy-pages 1〜2 回、lab-yamnet 1 回 約 12 分）。

diff --git a/docs/accuracy.md b/docs/accuracy.md
@@ -220,6 +220,22 @@
 - 再現: `terms()`・`WEIGHTS` を読み取り専用で import し、上の案ごとに項を差し替えて `rules()` と同じ合計を取る（`docs/daily/2026-11-18.md`。スクリプトはリポジトリに入れていない）。
 - **同夜の `lab-yamnet`（run 44149268487）の「今夜の要点」3 行**（`tests/lab/highlights.mjs`。これから毎回 Summary の最後と run の注釈に出る）: 吠え検出 本物の犬 45/45（100%）・犬以外 37/40（93%）も拾う／塊の犬らしさ（最低 2 秒・0.3）犬の塊 91/97（94%）・犬以外の塊 0/51（0%）、塊が全部落ちる犬の本 dog_panting・dog_whimper／くんくん lvlDrop 5.4 dB（吠えの 75% 点 2.9 dB より上）・MFCC c3(+2.2σ)、うなり 2.4 dB（重なる）・c3(+2.9σ)。11-15・11-16 と同じ数字。
 
+## MFCC の c3 はサンプリング周波数で変わる（2026-11-19、この作業環境の合成音。判定・表のコードは変えていない）
+
+plan #13 の「c3 を kNN の 9 本目に足す案」（`docs/plan.md` 同日）を書くために、fixtures の合成音で c3 の値を見たところ、**同じ音でも sr を変えると c3 が大きく動く**ことが分かった。メルフィルタバンクが 0〜sr/2 を 26 本で割るので、sr が変わると各フィルタの受け持つ帯域が変わる（frame 1024 の時間幅も 23 ms → 64 ms に変わる）。
+
+| 音（fixtures、合成） | 声 | c3 @ 44.1 kHz（そのまま） | c3 @ 16 kHz（`resampleTo16k` で落として） | c3 @ 48 kHz（44.1 kHz の波形を 48 kHz として読んだ目安） |
+|---|---|---|---|---|
+| bark4.wav（4 連吠え、2.8 秒） | 4 回・86 フレーム | −7.9 | **−2.9** | −8.0 |
+| howl.wav（遠吠え、2.0 秒） | 1 回・149 フレーム | −8.4 | −8.1 | −9.0 |
+| mic10s.wav（監視用、8.7 秒） | 5 回・104 フレーム | −7.5 | **−3.6** | −7.7 |
+
+- 44.1 → 16 kHz で吠えの c3 は **5.0 動く**（ESC-50 の吠え 40 本の σ 3.1 より大きい）。44.1 → 48 kHz は 0.1〜0.6 で小さい。
+- 11-15 の表は ESC-50（44.1 kHz）を基準に CC0 5 本を比べたが、**CC0 5 本の sr は確かめていない**（`fetch-data.mjs` は ffmpeg でモノラル 16bit にするだけで sr はそのまま）。もし くんくん・うなり が 44.1 kHz でなければ、「c3 +2.2σ／+2.9σ」は声の違いではなく sr の違いの可能性がある。→ `mfccReport` の表の下に基準と CC0 の sr を出す一言（`report.mjs` の `mfccSrNote`。違う本があれば名指しで警告）を足したので、次の `lab-yamnet` の run で分かる（`features-result.json` の `sr` にはもともと入っている）。
+- 本体に入れるなら、YAMNet と同じく **16 kHz に落としてから**（`app/lab/yamnet.js` の `resampleTo16k`）出す。スマホのマイクは 48 kHz（Android）／44.1 か 48 kHz（iPhone）で端末ごとに違うので、そろえないと kNN の距離が端末で変わる。基準の表（ESC-50・CC0）も 16 kHz で取り直す。
+- lvlDrop・f0・cent・長さ・間隔はこの影響を受けない（dB 差・Hz・秒で出している）。
+- 処理時間（この作業環境、Node 1 コア、13 係数）: bark4 2.8 秒で 21 ms、howl 2.0 秒で 14 ms、mic10s 8.7 秒で 59 ms。11-14 の「約 7.5 ms／秒」と同じ水準。
+
 ## 既知の弱点（2026-11-01）
 
 - 規則的すぎる連吠えは「要求」に寄る。本物の犬は間隔がばらつくので、実データで見直す。
